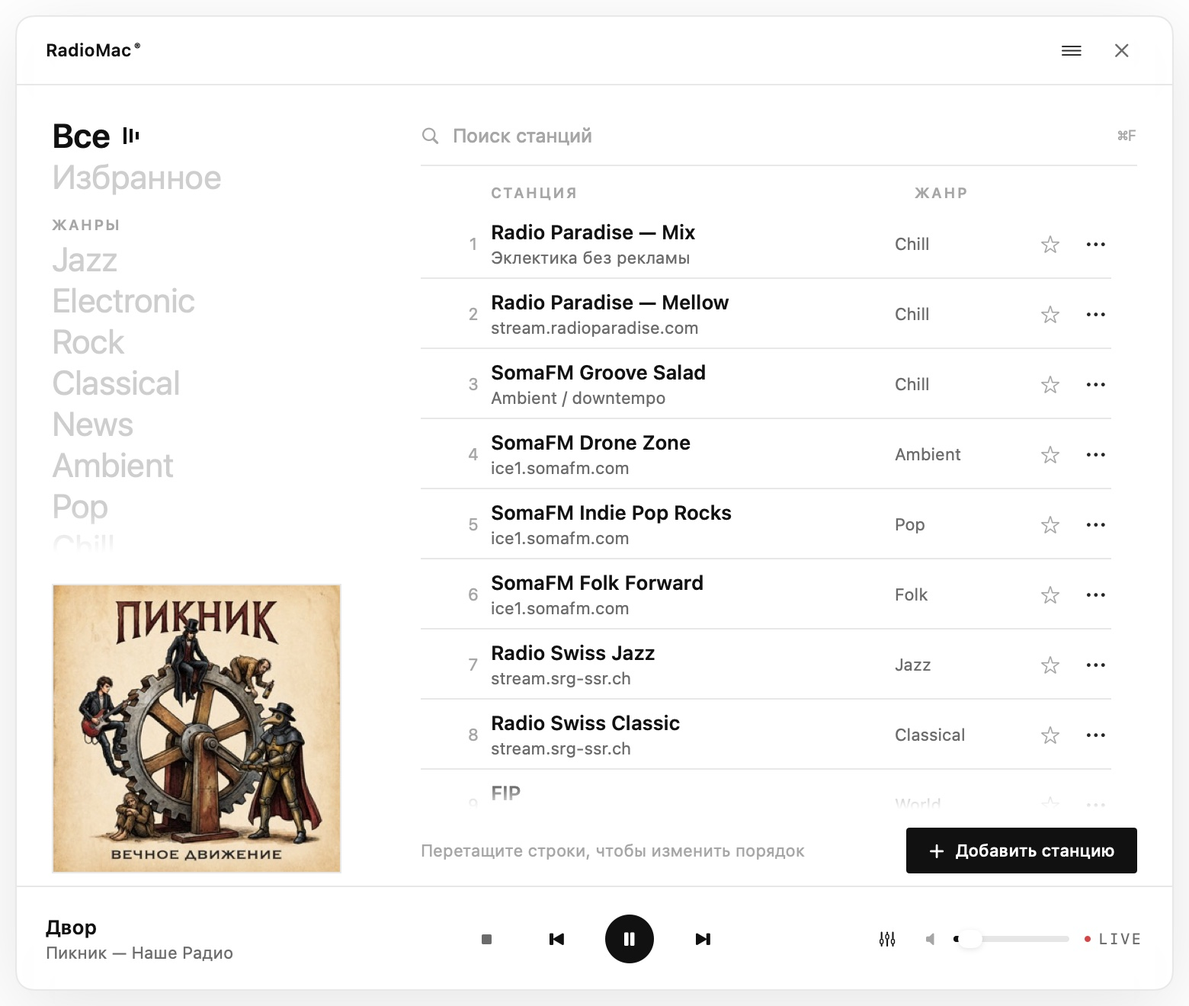
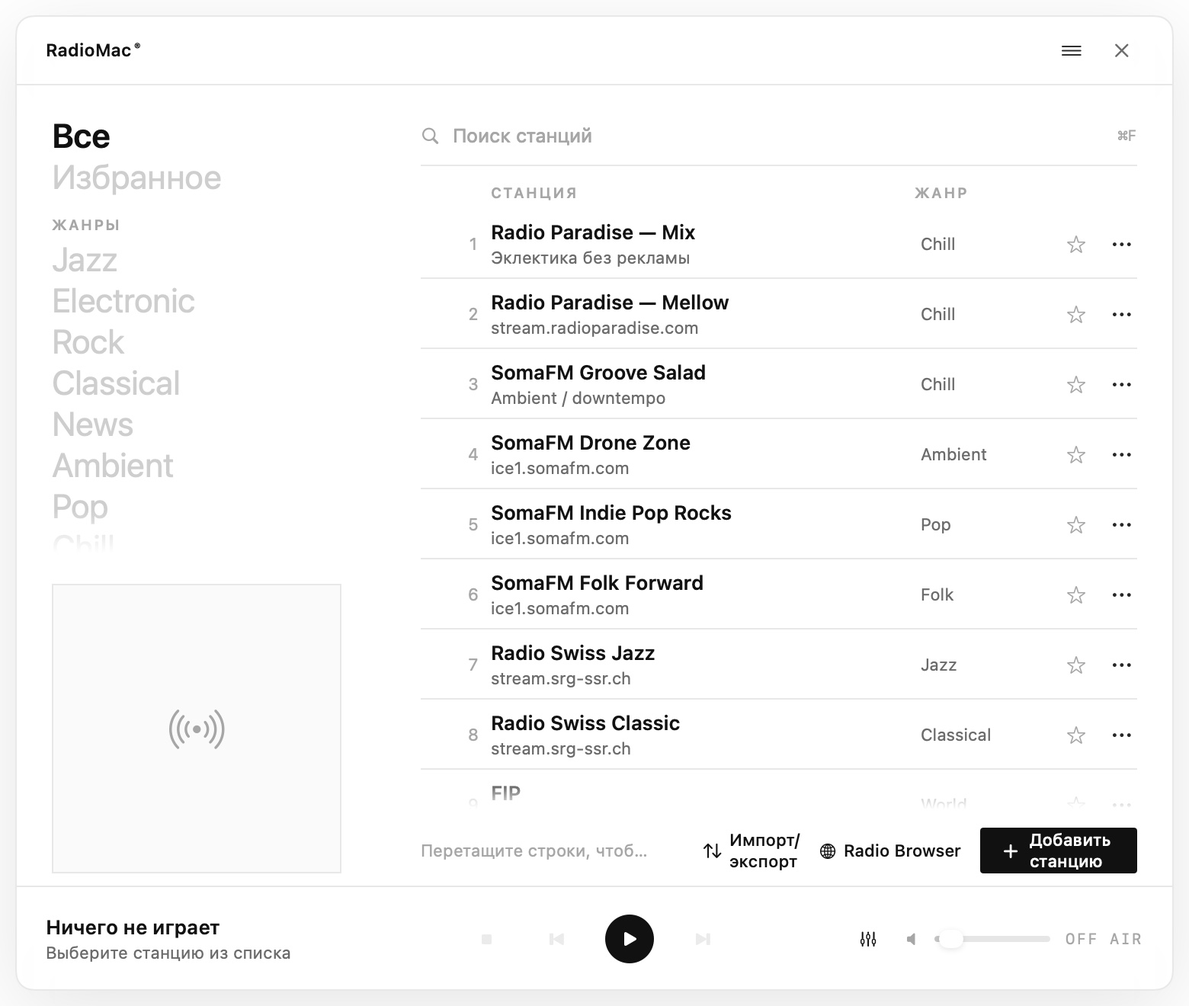
docs: refresh 1.2.0 screenshots and feature descriptions (#11, #16, #21, #19, #18, #17, #15, #13, #6)
- regenerate main dark/light, settings, equalizer and station editor shots
- add Radio Browser, import/export and menu-bar mini-player screenshots
- rewrite site cards for search, automation, widget, Sparkle and imports
- update README/wiki feature lists, screenshots and widget/App Group notes
- remove the stale SHA-256 BASS claim from the site security section

diff --git a/site/index.html b/site/index.html
@@ -4,7 +4,7 @@
   <meta charset="utf-8">
   <meta name="viewport" content="width=device-width, initial-scale=1">
   <title>RadioMac — интернет-радио в меню-баре macOS</title>
-  <meta name="description" content="RadioMac — нативный плеер интернет-радио для меню-бара macOS. 47 станций, метаданные трека, обложки, эквалайзер и Now Playing. Без иконки в Dock.">
+  <meta name="description" content="RadioMac — нативный плеер интернет-радио для меню-бара macOS. 47 станций и Radio Browser, метаданные, эквалайзер, мини-плеер, виджет, Shortcuts и Control Center. Без иконки в Dock.">
   <meta name="theme-color" content="#fafafa" media="(prefers-color-scheme: light)">
   <meta name="theme-color" content="#0d0d0e" media="(prefers-color-scheme: dark)">
   <link rel="icon" href="assets/favicon.png" type="image/png">
@@ -14,7 +14,7 @@
   <meta property="og:type" content="website">
   <meta property="og:url" content="https://fso13.github.io/RadioApple/">
   <meta property="og:title" content="RadioMac — интернет-радио в меню-баре">
-  <meta property="og:description" content="Нативный плеер интернет-радио для macOS: 47 станций, метаданные, эквалайзер, Now Playing. Скачать DMG.">
+  <meta property="og:description" content="Нативный плеер интернет-радио для macOS: 47 станций и Radio Browser, метаданные, эквалайзер, мини-плеер и виджет. Скачать DMG.">
   <meta property="og:image" content="https://fso13.github.io/RadioApple/assets/screenshots/main-light.jpg">
   <meta name="twitter:card" content="summary_large_image">
   <meta name="twitter:image" content="https://fso13.github.io/RadioApple/assets/screenshots/main-light.jpg">
@@ -31,6 +31,7 @@
         <a href="#features">Возможности</a>
         <a href="#screens">Скриншоты</a>
         <a href="#shortcuts">Клавиши</a>
+        <a href="#automation">Автоматизация</a>
         <a href="#install">Установка</a>
         <a class="nav__gh" href="https://github.com/fso13/RadioApple" data-repo-link>GitHub <span aria-hidden="true">↗</span></a>
       </nav>
@@ -42,7 +43,7 @@
       <div class="hero__copy">
         <p class="eyebrow">macOS · меню-бар</p>
         <h1 id="hero-title">Радио, которое живёт в&nbsp;меню-баре.</h1>
-        <p class="lede">47 станций, живые метаданные, эквалайзер и Now Playing в Control Center. Без иконки в Dock и без лишнего шума.</p>
+        <p class="lede">47 станций и Radio Browser, живые метаданные, эквалайзер, мини-плеер, виджет и Control Center. Без иконки в Dock и без лишнего шума.</p>
         <div class="hero__actions">
           <a class="btn btn--primary" data-download href="https://github.com/fso13/RadioApple/releases/latest">
             Скачать <span data-version>последнюю версию</span>
@@ -60,7 +61,7 @@
       <figure class="hero__art">
         <img src="assets/screenshots/main-light.jpg" width="1560" height="1320" fetchpriority="high"
              alt="Окно RadioMac: слева крупная навигация по жанрам и обложка, справа таблица станций, внизу транспорт">
-        <figcaption>Светлая тема · воспроизведение</figcaption>
+        <figcaption>Светлая тема · библиотека и транспорт</figcaption>
       </figure>
     </section>
 
@@ -72,33 +73,48 @@
       <div class="grid grid--features">
         <article class="feature">
           <p class="feature__index">01</p>
-          <h3>Навигация по жанрам</h3>
-          <p>Крупный список жанров и избранного вместо мелких чипов. Активный жанр отмечается эквалайзер-индикатором — как в референсе.</p>
+          <h3>Навигация и библиотека</h3>
+          <p>Крупные жанры, «Избранное» и группы в левой колонке. Порядок станций меняется перетаскиванием, состояние сохраняется между запусками.</p>
         </article>
         <article class="feature">
           <p class="feature__index">02</p>
-          <h3>Таблица станций</h3>
-          <p>Номер, название, подпись, жанр, избранное и меню действий. Поиск по всем полям, счётчик станций и сортировка по каталогу.</p>
+          <h3>Radio Browser</h3>
+          <p>Поиск тысяч станций по названию, жанру и стране, превью прямо в каталоге и добавление без дублей по URL или <code>stationuuid</code>.</p>
         </article>
         <article class="feature">
           <p class="feature__index">03</p>
           <h3>Живые метаданные</h3>
-          <p>ICY-теги, Icecast, SomaFM и Radio Paradise. Обложка подтягивается из iTunes, а трек уходит в Control Center.</p>
+          <p>HLS timed metadata, ICY, Icecast, SomaFM и Radio Paradise. Обложка подтягивается из iTunes, а трек уходит в системный Now Playing.</p>
         </article>
         <article class="feature">
           <p class="feature__index">04</p>
-          <h3>Транспорт и громкость</h3>
-          <p>Пауза, стоп, предыдущая и следующая станция, громкость и LIVE. Если ничего не выбрано, Play включает первую станцию.</p>
+          <h3>Мини-плеер в меню-баре</h3>
+          <p>Левый клик по иконке открывает поповер с обложкой, треком, play/pause, громкостью и быстрым выбором станции — без основного окна.</p>
         </article>
         <article class="feature">
           <p class="feature__index">05</p>
           <h3>Эквалайзер</h3>
-          <p>10 полос, пресеты и своя кривая. Настройка применяется ко всем станциям и сохраняется между запусками.</p>
+          <p>10 полос, пресеты и своя кривая. Нативный Biquad DSP в audio tap AVPlayer работает для HLS, AAC и MP3, не перезапуская поток.</p>
         </article>
         <article class="feature">
           <p class="feature__index">06</p>
-          <h3>Темы и приватность</h3>
-          <p>Светлая, тёмная или системная тема. Приложение работает в песочнице, не собирает телеметрию и не требует аккаунта.</p>
+          <h3>Импорт и экспорт</h3>
+          <p>JSON, M3U и OPML, drag-and-drop, режимы «Добавить» и «Заменить». Избранное сохраняется, встроенный каталог не затирается.</p>
+        </article>
+        <article class="feature">
+          <p class="feature__index">07</p>
+          <h3>Виджет и Control Center</h3>
+          <p>Виджет macOS 14+ с текущей станцией и play/pause. На macOS 26+ — элемент Control Center. Общее состояние хранится локально без App Group.</p>
+        </article>
+        <article class="feature">
+          <p class="feature__index">08</p>
+          <h3>Автоматизация</h3>
+          <p>«Играть станцию», «Пауза» и «Открыть RadioMac» в Shortcuts; URL <code>radiomac://play/&lt;id&gt;</code>, <code>radiomac://pause</code>, <code>radiomac://toggle</code>.</p>
+        </article>
+        <article class="feature">
+          <p class="feature__index">09</p>
+          <h3>Обновления, темы и приватность</h3>
+          <p>Sparkle 2 с EdDSA-подписанным appcast. Светлая, тёмная или системная тема. Песочница, без аккаунтов и телеметрии.</p>
         </article>
       </div>
     </section>
@@ -111,12 +127,17 @@
       <div class="grid grid--shots">
         <figure class="shot">
           <img src="assets/screenshots/main-dark.jpg" width="1560" height="1320" loading="lazy"
-               alt="Главное окно RadioMac в тёмной теме с таблицей станций">
-          <figcaption>Тёмная тема — инверсия той же системы</figcaption>
+               alt="Главное окно RadioMac в тёмной теме: жанры, станции, импорт и Radio Browser">
+          <figcaption>Тёмная тема — та же система в инверсии</figcaption>
+        </figure>
+        <figure class="shot">
+          <img src="assets/screenshots/main-playing.jpg" width="1560" height="1320" loading="lazy"
+               alt="Главное окно RadioMac во время эфира: станция, транспорт и LIVE">
+          <figcaption>Эфир и транспорт</figcaption>
         </figure>
         <figure class="shot">
           <img src="assets/screenshots/settings.jpg" width="1560" height="1320" loading="lazy"
-               alt="Настройки RadioMac: оформление, поведение, звук, библиотека">
+               alt="Настройки RadioMac: оформление, поведение, будильник, звук, обновления и поток">
           <figcaption>Настройки</figcaption>
         </figure>
         <figure class="shot">
@@ -125,9 +146,24 @@
           <figcaption>Эквалайзер</figcaption>
         </figure>
         <figure class="shot">
-          <img src="assets/screenshots/station-editor.jpg" width="1040" height="1240" loading="lazy"
-               alt="Форма добавления станции: название, ссылка на поток, жанр, комментарий, логотип">
-          <figcaption>Своя станция</figcaption>
+          <img src="assets/screenshots/station-editor.jpg" width="1080" height="1440" loading="lazy"
+               alt="Редактор станции: ссылка, жанр, группа, логотип, смещение громкости, EQ-пресет и автозапуск">
+          <figcaption>Станция и её настройки</figcaption>
+        </figure>
+        <figure class="shot">
+          <img src="assets/screenshots/radio-browser.jpg" width="1520" height="1220" loading="lazy"
+               alt="Окно Radio Browser: поиск по названию, жанру и стране">
+          <figcaption>Radio Browser</figcaption>
+        </figure>
+        <figure class="shot">
+          <img src="assets/screenshots/transfer.jpg" width="1320" height="940" loading="lazy"
+               alt="Импорт и экспорт станций: JSON, M3U, OPML, добавить или заменить">
+          <figcaption>Импорт и экспорт</figcaption>
+        </figure>
+        <figure class="shot">
+          <img src="assets/screenshots/mini-player.jpg" width="640" height="860" loading="lazy"
+               alt="Мини-плеер в меню-баре: обложка, станция, play/pause, громкость и быстрый выбор">
+          <figcaption>Мини-плеер в меню-баре</figcaption>
         </figure>
       </div>
     </section>
@@ -154,6 +190,30 @@
       </table>
     </section>
 
+    <section class="section" id="automation" aria-labelledby="automation-title">
+      <div class="section__head">
+        <p class="eyebrow">Автоматизация</p>
+        <h2 id="automation-title">Радио по команде</h2>
+      </div>
+      <div class="grid grid--features">
+        <article class="feature">
+          <p class="feature__index">Shortcuts</p>
+          <h3>Играть станцию</h3>
+          <p>Команда выбирает станцию из библиотеки и запускает эфир; отдельные команды — «Пауза» и «Открыть RadioMac».</p>
+        </article>
+        <article class="feature">
+          <p class="feature__index">URL</p>
+          <h3>Ссылки radiomac://</h3>
+          <p><code>radiomac://play/&lt;id&gt;</code> включает станцию, <code>radiomac://pause</code> ставит паузу, <code>radiomac://toggle</code> переключает play/pause.</p>
+        </article>
+        <article class="feature">
+          <p class="feature__index">Sparkle</p>
+          <h3>Обновления без DMG</h3>
+          <p>Appcast в latest release подписан Ed25519. «Настройки → Обновления» и меню-бар проверяют и устанавливают новую версию.</p>
+        </article>
+      </div>
+    </section>
+
     <section class="section" id="install" aria-labelledby="install-title">
       <div class="section__head">
         <p class="eyebrow">Установка</p>
@@ -170,7 +230,7 @@
         </li>
         <li>
           <h3>Запустите</h3>
-          <p>Иконка появится в меню-баре, окно откроется по клику. Приложение не показывается в Dock и продолжает играть после закрытия окна.</p>
+          <p>Иконка появится в меню-баре, окно откроется по клику. Приложение не показывается в Dock, продолжает играть после закрытия окна и обновляется через Sparkle.</p>
         </li>
       </ol>
       <p class="note">
@@ -202,7 +262,8 @@
           <li>OSV-Scanner и Dependency Review</li>
           <li>SBOM приложения и скан Grype</li>
           <li>Dependabot для actions и Python-инструментов</li>
-          <li>SHA-256 вендорных аудиобиблиотек</li>
+          <li>Sparkle 2 appcast с EdDSA-подписью</li>
+          <li>Виджет без App Group: общий файл только со станцией и статусом</li>
           <li>Подпись Developer ID и нотарификация — когда настроены секреты</li>
         </ul>
       </div>

diff --git a/wiki/Settings.md b/wiki/Settings.md
@@ -37,12 +37,10 @@
 
 ## Звук
 
-- **Движок**: AVPlayer для HLS, AAC и MP3 (отдельной настройки больше нет).
-  Для AVPlayer-потоков ICY-метаданные читаются отдельным side-channel.
-  В режиме AVPlayer ICY-метаданные и эквалайзер пока недоступны.
-- «Эквалайзер» показывает текущее состояние (включён/выключен) и пресет;
-  используется нативный DSP в audio tap AVPlayer.
-- «Настроить» открывает [Эквалайзер](Equalizer); в AVPlayer кнопка неактивна.
+- **Движок**: AVPlayer для HLS, AAC и MP3. HLS timed metadata и ICY side-channel
+  работают, эквалайзер — нативный Biquad DSP в audio tap.
+- «Эквалайзер» показывает текущее состояние (включён/выключен) и пресет.
+- «Настроить» открывает [Эквалайзер](Equalizer) для любого потока.
 
 ## Поток
 
@@ -65,11 +63,11 @@
   скопировать, очистить или показать в Finder.
 - Файл: `~/Library/Containers/com.fso13.radioMac/Data/Library/Application Support/RadioMac/diagnostics.log`.
 
-## Поток
+## Обновления
 
-Раздел «Поток» показывает станцию, статус, AVPlayer, кодек, битрейт, частоту,
-каналы, буфер и сервер. «Обновить» перечитывает параметры, «Скопировать
-диагностику» собирает текст для issue.
+Раздел «Обновления» показывает версию и кнопку «Проверить». Sparkle 2 читает
+appcast из latest release и проверяет EdDSA-подпись перед установкой. Приложение
+обновляется без ручного DMG.
 
 ## Переподключение
 

diff --git a/wiki/Home.md b/wiki/Home.md
@@ -26,9 +26,13 @@
 
 ## Что умеет
 
-- **47 станций** в каталоге, свои станции, избранное и поиск.
-- **Метаданные трека**: ICY, Icecast, SomaFM, Radio Paradise; обложки из iTunes;
-  Now Playing в Control Center.
+- **47 станций** в каталоге + **Radio Browser** с поиском по названию, жанру и стране,
+  свои станции, избранное и превью.
+- **Импорт/экспорт** JSON, M3U и OPML с drag-and-drop и сохранением избранного.
+- **Метаданные трека**: HLS timed metadata, ICY, Icecast, SomaFM, Radio Paradise;
+  обложки из iTunes; Now Playing в Control Center.
+- **Мини-плеер** в меню-баре, **виджет** macOS 14+ и Control Center macOS 26+.
+- **Shortcuts/App Intents** и URL `radiomac://`; Sparkle 2 с EdDSA-обновлениями.
 - **10-полосный эквалайзер** с пресетами и своей кривой.
 - **Группы станций** и собственный порядок перетаскиванием.
 - **Будильник-радио** с расписанием по дням недели и плавным нарастанием.
@@ -63,7 +67,8 @@
 ## Для разработчиков
 
 - Исходники: [github.com/fso13/RadioApple](https://github.com/fso13/RadioApple).
-- Flutter-версия сохранена в `lib/` и `macos/` для сравнения; актуальная — нативная.
+- Flutter-версия сохранена в ветке `flutter-legacy` и теге `flutter-legacy-1.0`;
+  в `main` только нативная версия.
 - Язык Swift 6 (strict concurrency), цель macOS 14, универсальная сборка (arm64 + x86_64).
 
 ---

diff --git a/wiki/Features.md b/wiki/Features.md
@@ -52,6 +52,8 @@ Developer team не требуются. Виджет обновляется че
 и сервер. Значения обновляются кнопкой «Обновить», а «Скопировать диагностику»
 кладёт станцию, URL, состояние, параметры потока, EQ и ошибку в буфер обмена.
 
+![Мини-плеер](https://raw.githubusercontent.com/fso13/RadioApple/main/site/assets/screenshots/mini-player.jpg)
+
 ## Мини-плеер в меню-баре
 
 Левый клик по иконке открывает поповер: обложка, станция и трек, play/pause,
@@ -73,11 +75,15 @@ Sparkle 2 проверяет appcast из latest release (`appcast.xml`) и пр
 ограничивается безопасным диапазоном, а автозапуск срабатывает при старте RadioMac,
 если не включено восстановление последней станции.
 
+![Импорт и экспорт](https://raw.githubusercontent.com/fso13/RadioApple/main/site/assets/screenshots/transfer.jpg)
+
 ## Импорт и экспорт
 
 Меню **Импорт/экспорт** и drag-and-drop понимают JSON, M3U и OPML. Режим
 «Добавить» пропускает дубликаты, «Заменить» заменяет пользовательские станции,
 сохраняя избранное по URL и не трогая встроенный каталог.
+
+![Radio Browser](https://raw.githubusercontent.com/fso13/RadioApple/main/site/assets/screenshots/radio-browser.jpg)
 
 ## Radio Browser
 

diff --git a/wiki/Build.md b/wiki/Build.md
@@ -107,13 +107,12 @@ xcrun stapler staple dist/RadioMac-1.0.0.dmg
 
 После stapling пересчитайте `SHA256SUMS.txt`: файл изменился.
 
-### App Groups
+### Виджет и App Groups
 
-Виджет (RM-19) и iCloud (RM-18) используют `com.apple.security.application-groups`.
-Это entitlement требует provisioning profile с App Groups: ad-hoc подпись падает с
-`"RadioMac" requires a provisioning profile`. Для локальной проверки нужен Apple
-Development team, для релиза — Developer ID с профилем, где зарегистрирован
-`group.com.fso13.radioMac`.
+Виджет RM-19 не использует App Group: app и extension читают
+`/Users/Shared/RadioMac/nowplaying.json` через sandbox temporary-exception, поэтому
+ad-hoc сборка работает без Developer team. iCloud (RM-18) по-прежнему требует
+`com.apple.security.application-groups` и provisioning profile.
 
 ## Локальный лаунчер
 

diff --git a/wiki/Development.md b/wiki/Development.md
@@ -35,7 +35,8 @@ APP=.build/DerivedData/Build/Products/Debug/RadioMac.app
 
 Файлы: `01-main.png`, `02-settings.png`, `03-equalizer.png`, `04-editor.png`,
 `05-favorites.png`, `06-dark.png`, `07-reshown.png`, `08-playing.png`,
-`09-settings-dark.png`. Харнесс сам переключает темы, открывает листы и запускает
+`09-settings-dark.png`, `10-radio-browser.png`, `11-transfer.png`,
+`12-mini-player.png`. Харнесс сам переключает темы, открывает листы и запускает
 станцию, затем завершает приложение.
 
 `-playtest <файл>` запускает три потока (MP3, AAC, MP3) и записывает результат

diff --git a/wiki/Install.md b/wiki/Install.md
@@ -81,6 +81,10 @@ shasum -a 256 -c SHA256SUMS.txt
 
 ## Обновление
 
+Sparkle 2 проверяет подписанный appcast и предлагает новую версию; обновление
+можно запустить из **Настройки → Обновления** или из меню-бара. Ручной DMG нужен
+только для первой установки или если автообновление отключено.
+
 1. Завершите приложение: меню в меню-баре → «Завершить», или Настройки → «Завершить RadioMac».
 2. Замените `RadioMac.app` новой версией (DMG/PKG).
 3. Запустите снова.

diff --git a/README.md b/README.md
@@ -26,6 +26,10 @@
 | --- | --- | --- |
 | ![Настройки](site/assets/screenshots/settings.jpg) | ![Эквалайзер](site/assets/screenshots/equalizer.jpg) | ![Редактор станции](site/assets/screenshots/station-editor.jpg) |
 
+| Radio Browser | Импорт и экспорт | Мини-плеер |
+| --- | --- | --- |
+| ![Radio Browser](site/assets/screenshots/radio-browser.jpg) | ![Импорт и экспорт](site/assets/screenshots/transfer.jpg) | ![Мини-плеер](site/assets/screenshots/mini-player.jpg) |
+
 ## Flutter-версия
 
 Flutter-приложение больше не лежит в `main`: оно сохранено в ветке
